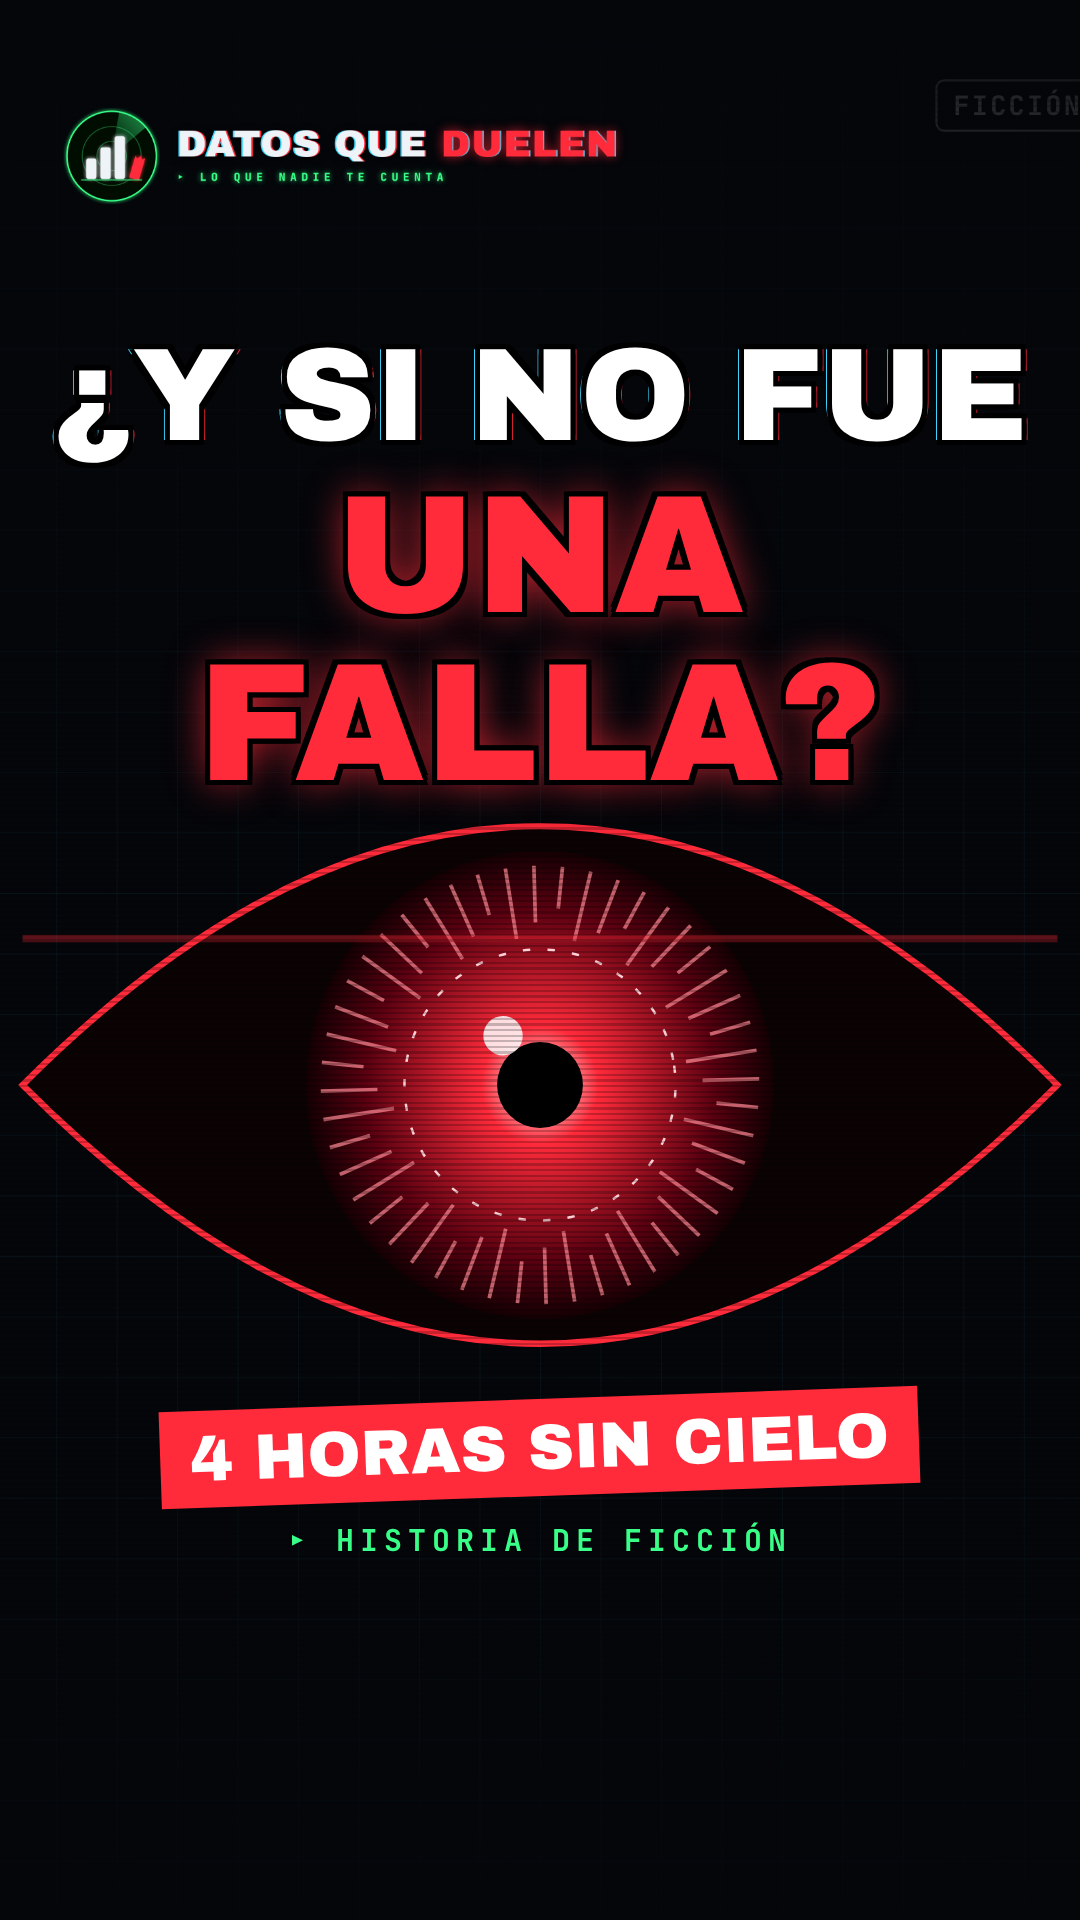
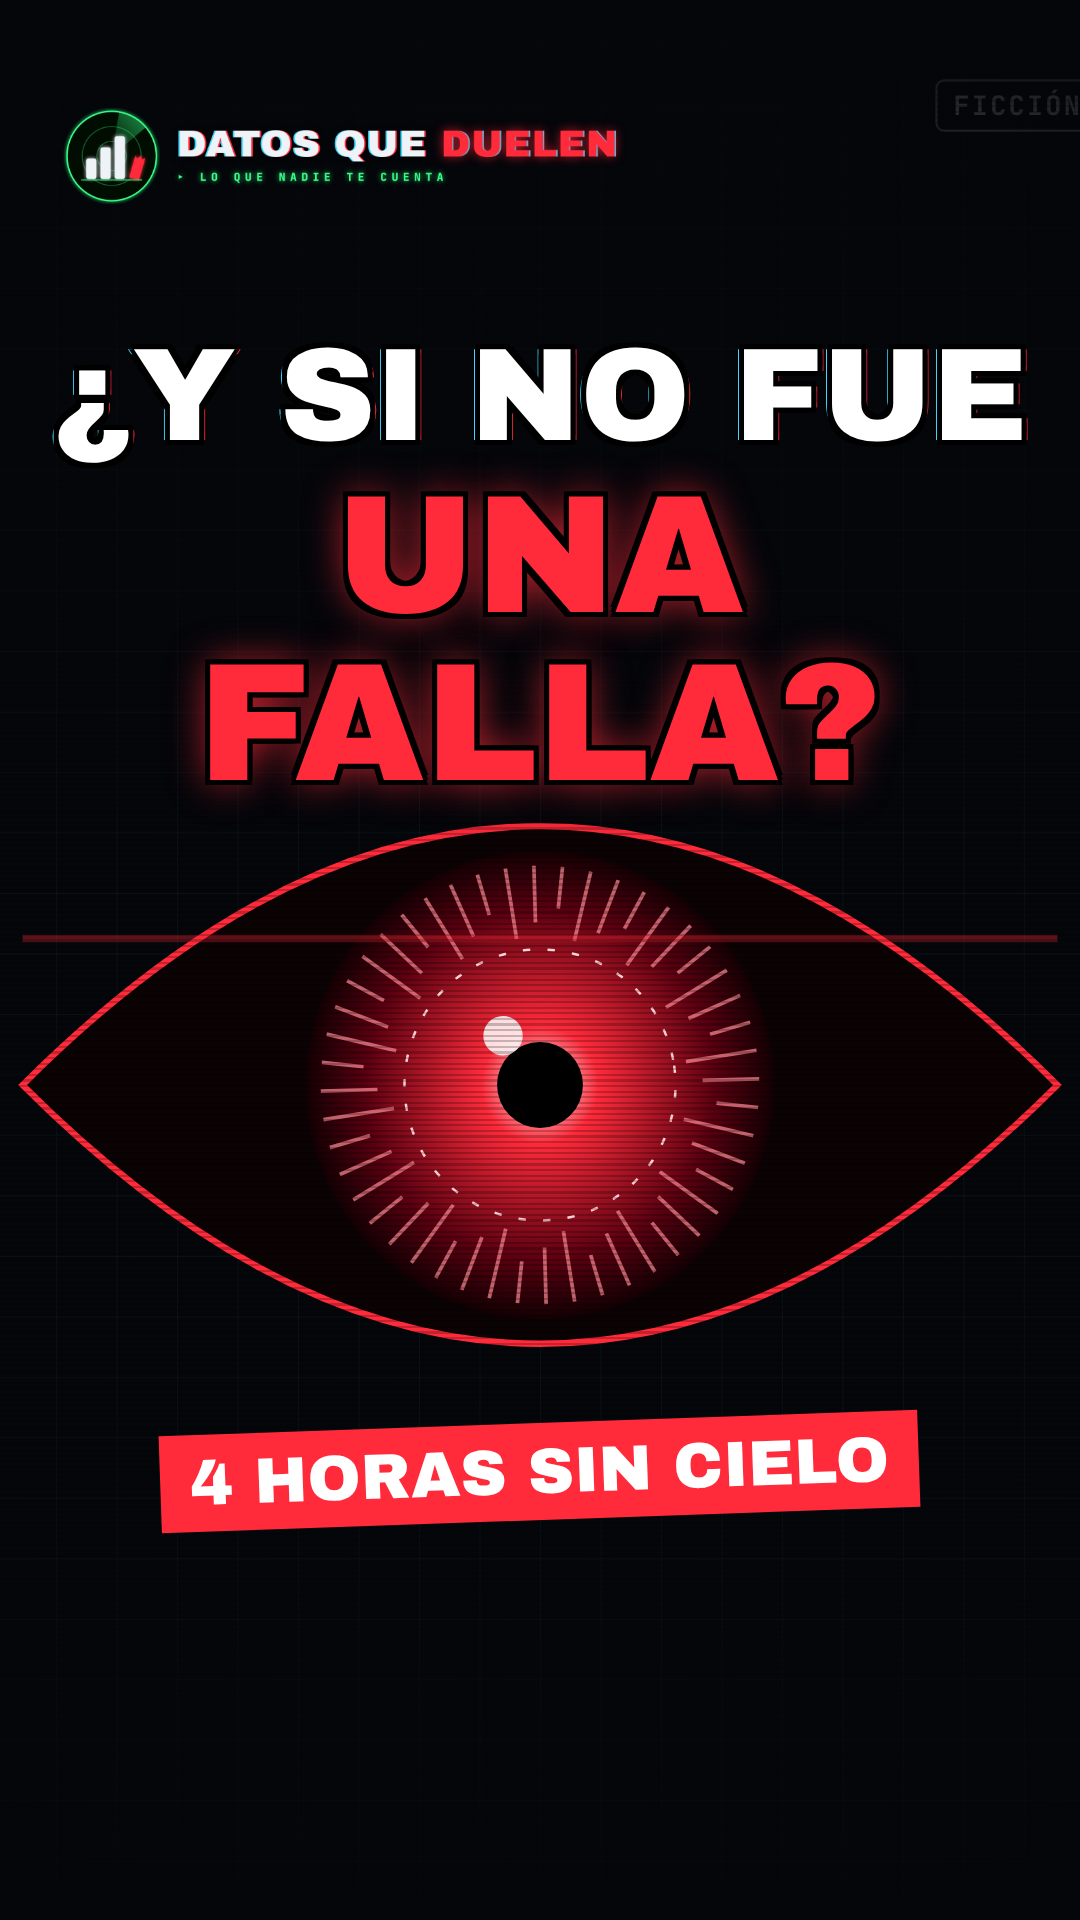
Remove fiction line from ORÁCULO cover
Claude-Session: https://claude.ai/code/session_01QvXZz8CB54jx2Jh8rNQ9H9

Changed region(s): [[0.1528, 0.7188, 0.8556, 0.8125]]

diff --git a/src/oraculo/PortadaOraculo.tsx b/src/oraculo/PortadaOraculo.tsx
@@ -1,6 +1,6 @@
 import React from "react";
 import { AbsoluteFill, Img, Sequence, staticFile } from "remotion";
-import { DISPLAY, MONO } from "../theme";
+import { DISPLAY } from "../theme";
 import { Oraculo } from "./Oraculo";
 
 /** Portada vertical: el ojo de ORÁCULO abierto + pregunta gancho + logo del canal */
@@ -20,9 +20,8 @@ export const PortadaOraculo: React.FC = () => {
         <div style={{ fontSize: 132, color: "#fff", textShadow: `${borde}, 6px 0 #ff2a3a, -6px 0 #3fd8ff` }}>¿Y SI NO FUE</div>
         <div style={{ fontSize: 168, color: "#ff2a3a", marginTop: 10, textShadow: `${borde}, 0 0 40px rgba(255,42,58,.8)` }}>UNA FALLA?</div>
       </div>
-      <div style={{ position: "absolute", bottom: 360, left: 0, right: 0, textAlign: "center" }}>
+      <div style={{ position: "absolute", bottom: 400, left: 0, right: 0, textAlign: "center" }}>
         <div style={{ display: "inline-block", padding: "14px 30px", background: "#ff2a3a", fontFamily: DISPLAY, fontSize: 64, color: "#fff", transform: "rotate(-2deg)" }}>4 HORAS SIN CIELO</div>
-        <div style={{ marginTop: 24, fontFamily: MONO, fontWeight: 700, fontSize: 30, letterSpacing: 6, color: "#39ff88" }}>▸ HISTORIA DE FICCIÓN</div>
       </div>
     </AbsoluteFill>
   );
